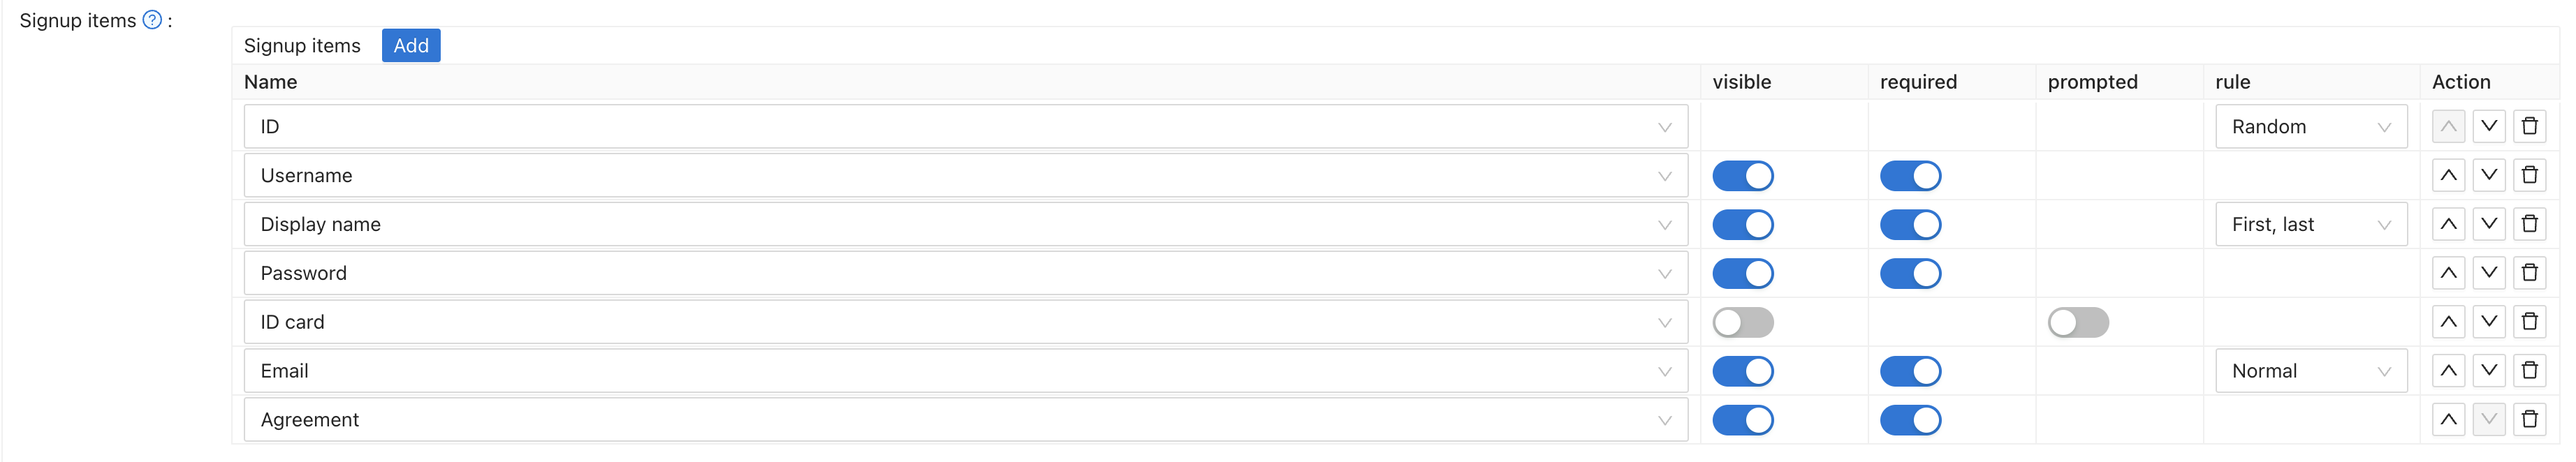
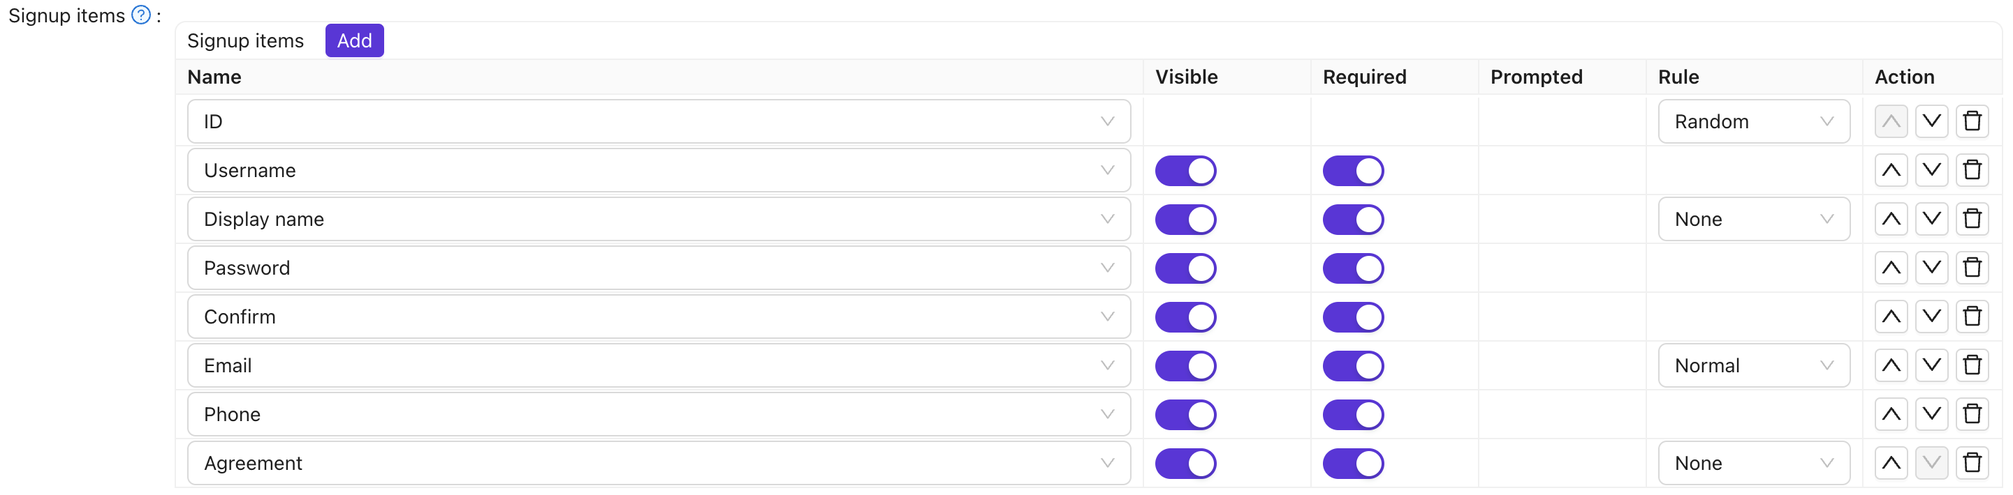
docs: add agreement selectable rules and descriptions (#431)

diff --git a/docs/application/signup-items-tabel.md b/docs/application/signup-items-tabel.md
@@ -20,13 +20,14 @@ For a detailed explanation of each signup item, please see the table below.
 |    rule     |  `Rule Items`   | Select a rule to use with this signup item. The rule is to add some customization to this signup item. The detailed rules are described in the table below. |
 |   Action    |        -         | Users can take some action here, such as moving this signup item up, moving this signup item down, or deleting this signup item.                            |
 
-So far, the signup items that support configuration rules include `ID`, `Display name` and `Email`.
+So far, the signup items that support configuration rules include `ID`, `Display name`, `Email` and `Agreement`.
 
-|  Item Name   |           Selectable Rules           | Description                                                                                                                                                                                 |
-|:------------:|:------------------------------------:|---------------------------------------------------------------------------------------------------------------------------------------------------------------------------------------------|
-|      ID      |       `Random` / `Incremental`       | Select whether the user ID is randomly generated or incremented.                                                                                                                            |
-| Display name | `None`/ `Real name` / `First, last` | Choose the presentation of the display name. Choose `None` will show `Display name`. Choose `Real name` will show `Real name`. Choose `First, last` will show `First name` and `last name`. |
-|    Email     |     `Normal`/ `No verification`     | Select whether to verify the verification code of the mailbox. Choose `Normal` will verify the email code. Choose No verification will not verify the email code.                           |
+|  Item Name   |              Selectable Rules              | Description                                                                                                                                                                                                                                                                                                                    |
+|:------------:|:------------------------------------------:|--------------------------------------------------------------------------------------------------------------------------------------------------------------------------------------------------------------------------------------------------------------------------------------------------------------------------------|
+|      ID      |          `Random` / `Incremental`          | Select whether the user ID is randomly generated or incremented.                                                                                                                                                                                                                                                               |
+| Display name |    `None`/ `Real name` / `First, last`     | Choose the presentation of the display name. Choose `None` will show `Display name`. Choose `Real name` will show `Real name`. Choose `First, last` will show `First name` and `last name`.                                                                                                                                    |
+|    Email     |        `Normal`/ `No verification`         | Select whether to verify the verification code of the mailbox. Choose `Normal` will verify the email code. Choose No verification will not verify the email code.                                                                                                                                                              |
+|  Agreement   | `None`/ `Signin` / `Signin (Default True)` | Select whether the user needs to confirm terms of use when logging in. Choose `None` to not display terms of use, and users can log in directly. Choose `Signin` to require users to confirm the terms before logging in. Choose `Signin (Default True)` to set the terms confirmed by default, and users can log in directly. |
 
 :::note
 
